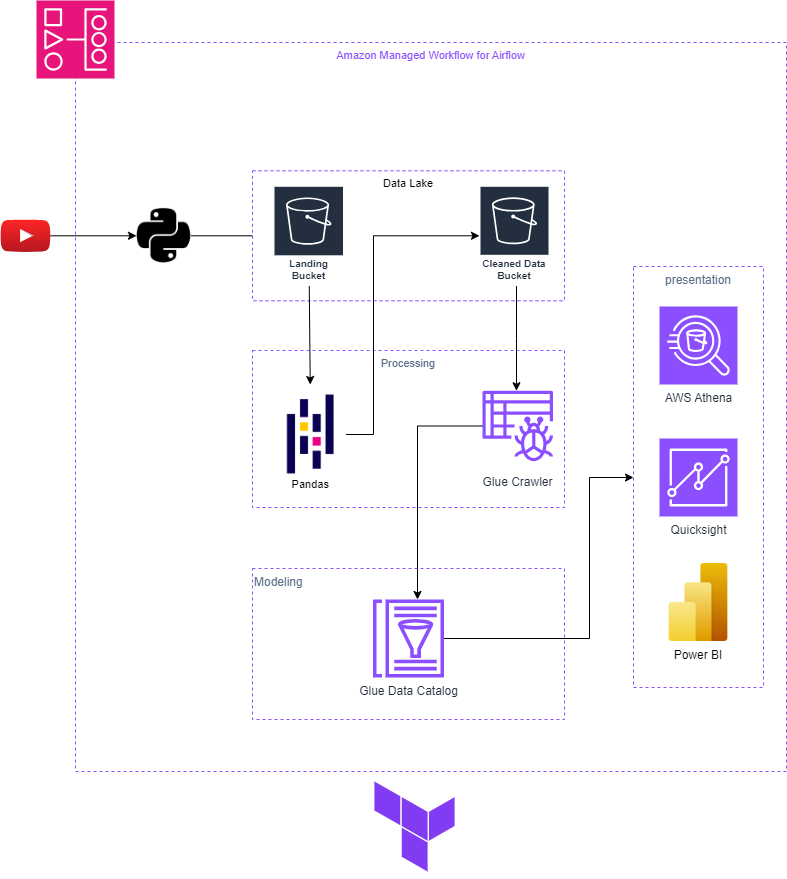
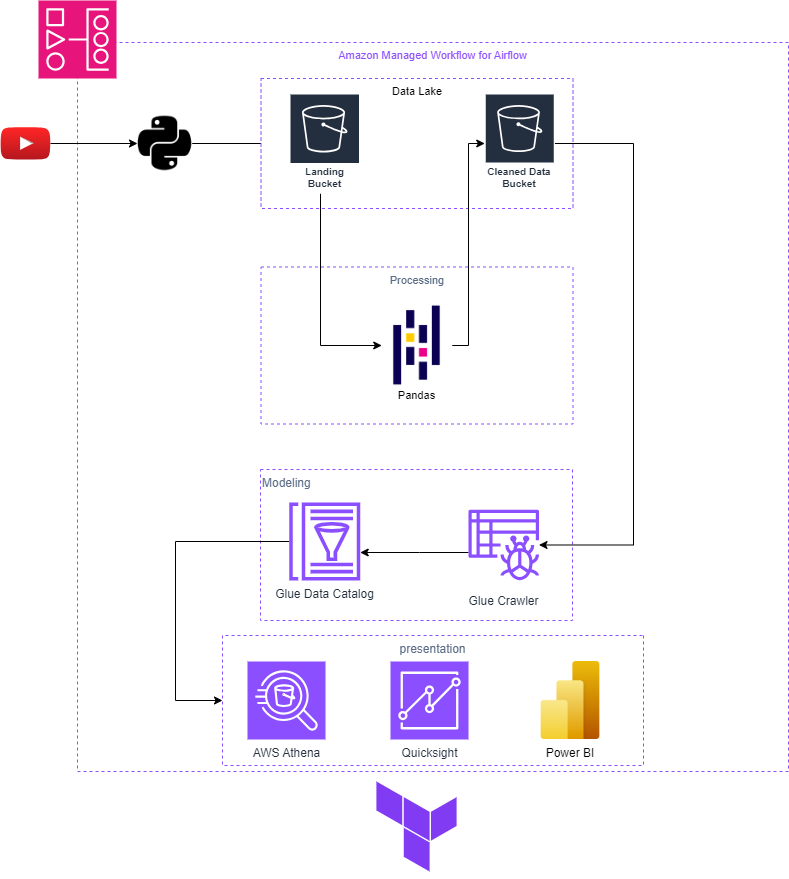
Createin the README file

diff --git a/README.md b/README.md
@@ -1,1 +1,60 @@
 # youtube-DE
+![project workflow](project_workflow.png)
+
+In this project, I tried to this [dataset](https://www.kaggle.com/datasets/datasnaek/youtube-new) as a real-life data engineering project. 
+
+I used Amazon Managed Workflows for Apache Airflow to host the airflow server to schedule and automate the whole workflow.
+
+I used Terraform as an Infrastructure as Code tool to make it easy to build all my aws resources and destroy them at the end of the day
+
+The workflow of this project is :
+- retrieve the data from YouTube API with python [code](https://github.com/mdeghady/youtube-DE/blob/main/dags/myUtils/YoutubeRequest.py)
+
+- push the retrieved JSON file from YouTube API to xcom for further processing & to the S3 landing bucket to ease reconciliation between source systems and the cleaned data.
+
+- pull the JSON file from xcom to process it and save the processed data as Apache parquet files according to the country code
+
+- push cleaned Apache parquet files to Cleaned Data Bucket
+
+- trigger Glue Crawler to start crawling the data & ingesting them to aws data catalog
+
+
+I built a data lake house consisting of four layers :
+* Data Lake
+* Processing Layer
+* Modeling Layer
+* Presentation Layer
+
+## Data Lake:
+consists of two buckets:
+* Landing Bucket:
+    acts as a buffer zone between the source and processing & modeling layers, and it has the retrieved data in their native format (JSON).
+* Cleaned Data Bucket: 
+    contains the data after processing it with the pandas module on the airflow server. it has the data ready to be cleaned and ready to be consumed in columnar data file format (parquet) to be easily scanned or ingested. This bucket has partition indexes to act as database indexes in the modeling layer to optimize the query performance of presentation layer tools.
+
+
+
+## Processing Layer:
+It consists of  [pandas code](https://github.com/mdeghady/youtube-DE/blob/main/dags/myUtils/upload_data_to_s3.py) to clean the JSON files from the landing bucket and ingest them into the cleaned data bucket.
+The cleaning steps are:
+1. normalizing the JSON to make it easy to access with pandas
+2. delete unnecessary columns
+3. fixing the corrupted column data types
+4. renaming the columns to more clear names
+
+
+## Modeling Layer:
+In this layer, I used AWS Glue services to make a database from the parquet files located in the cleaned data bucket.
+
+-The workflow on this layer starts with the AWS Glue Crawler to populate the AWS Glue Data Catalog with tables with data from the cleaned data bucket & the first crawl Glue Crawler creates the database and the tables in the Glue Data Catalog. Crawler can automatically add partition indexes for newly discovered tables to optimize query processing on the partitioned dataset.
+
+
+## Presentaion layer :
+On this layer, we can add any tool or service to consume the database from aws data catalog such as:
+- Query tools (Amazon Athena)
+- BI tools (e.g. Power BI, Amazon QuickSight)
+
+
+
+
+
